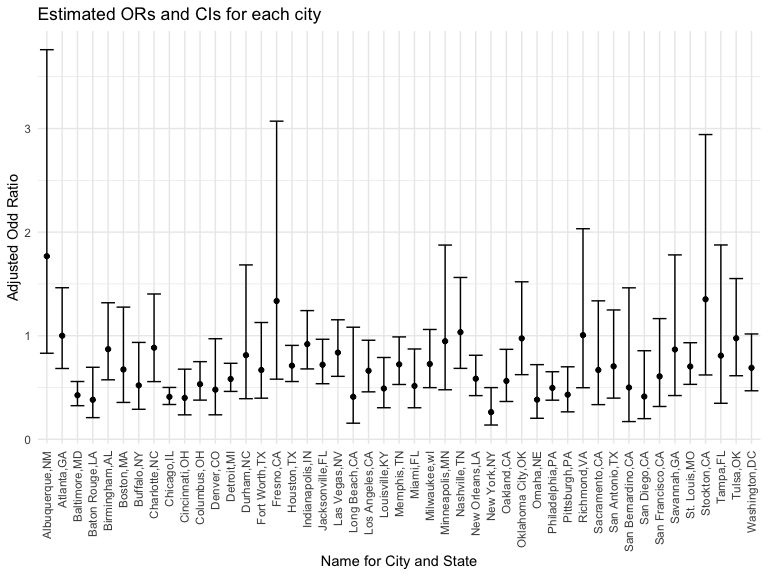
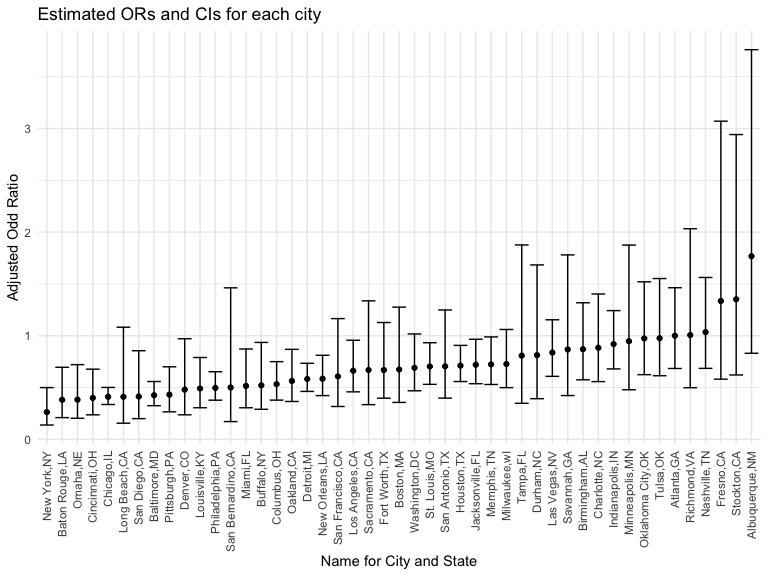
update plot for problem 2

diff --git a/p8105_hw6_yc4195.md b/p8105_hw6_yc4195.md
@@ -20,15 +20,6 @@ homicide_df =
   select(city_state, resolution, victim_age, victim_race, victim_sex)
 ```
 
-    ## Rows: 52179 Columns: 12
-    ## ── Column specification ────────────────────────────────────────────────────────
-    ## Delimiter: ","
-    ## chr (9): uid, victim_last, victim_first, victim_race, victim_age, victim_sex...
-    ## dbl (3): reported_date, lat, lon
-    ## 
-    ## ℹ Use `spec()` to retrieve the full column specification for this data.
-    ## ℹ Specify the column types or set `show_col_types = FALSE` to quiet this message.
-
 ``` r
 baltimore_df = 
   homicide_df %>% 
@@ -68,15 +59,29 @@ homicide_or =
     lower_ci = exp(estimate - 1.96 * std.error),
     upper_ci = exp(estimate + 1.96 * std.error)
   ) %>% 
-  select(city_state,term, OR, lower_ci,upper_ci ) 
+  select(city_state,OR, lower_ci,upper_ci ) 
+homicide_or
 ```
+
+    ## # A tibble: 47 × 4
+    ## # Groups:   city_state [47]
+    ##    city_state        OR lower_ci upper_ci
+    ##    <chr>          <dbl>    <dbl>    <dbl>
+    ##  1 Albuquerque,NM 1.77     0.831    3.76 
+    ##  2 Atlanta,GA     1.00     0.684    1.46 
+    ##  3 Baltimore,MD   0.426    0.325    0.558
+    ##  4 Baton Rouge,LA 0.381    0.209    0.695
+    ##  5 Birmingham,AL  0.870    0.574    1.32 
+    ##  6 Boston,MA      0.674    0.356    1.28 
+    ##  7 Buffalo,NY     0.521    0.290    0.935
+    ##  8 Charlotte,NC   0.884    0.557    1.40 
+    ##  9 Chicago,IL     0.410    0.336    0.501
+    ## 10 Cincinnati,OH  0.400    0.236    0.677
+    ## # … with 37 more rows
 
 ``` r
 homicide_or %>% 
-  mutate(
-    city_state = fct_reorder(city_state, OR)
-    ) %>% 
-  ggplot(aes(x = city_state, y = OR)) +
+  ggplot(aes(x = fct_reorder(city_state, OR), y = OR)) +
   geom_point() + 
   geom_errorbar(aes(ymin = lower_ci, ymax = upper_ci)) + 
   theme(axis.text.x = element_text(angle = 90, vjust = 0.5, hjust = 1))+
